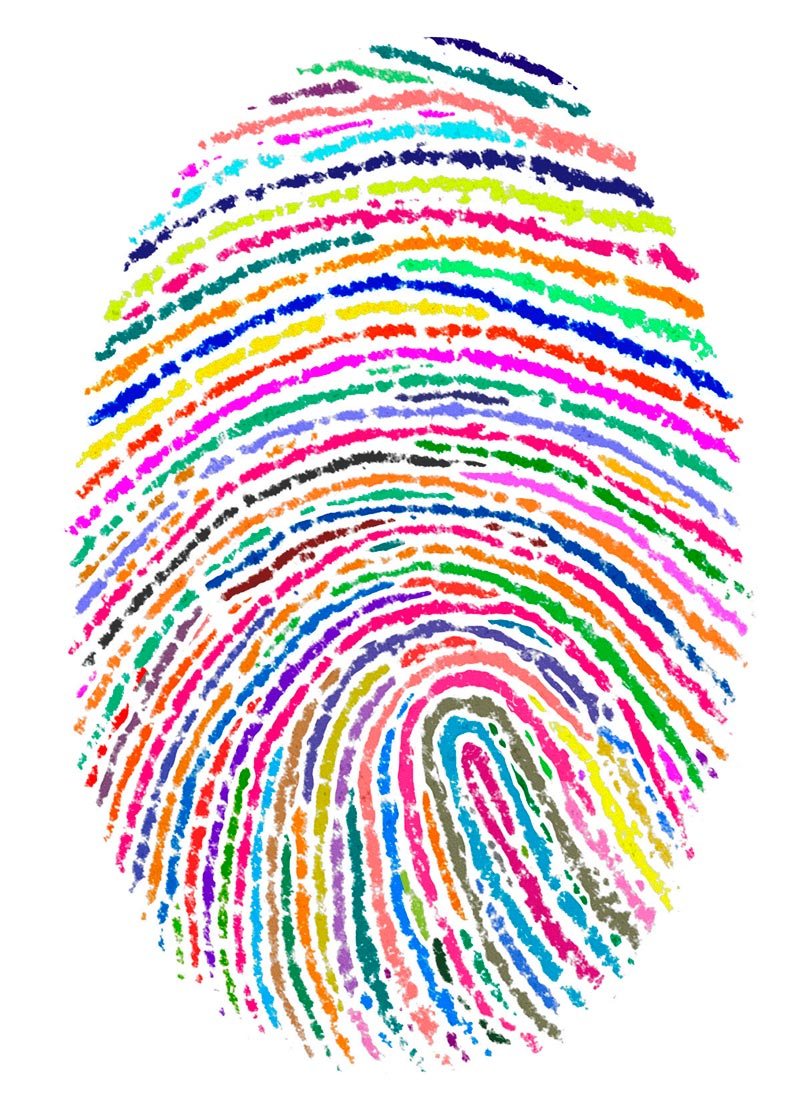
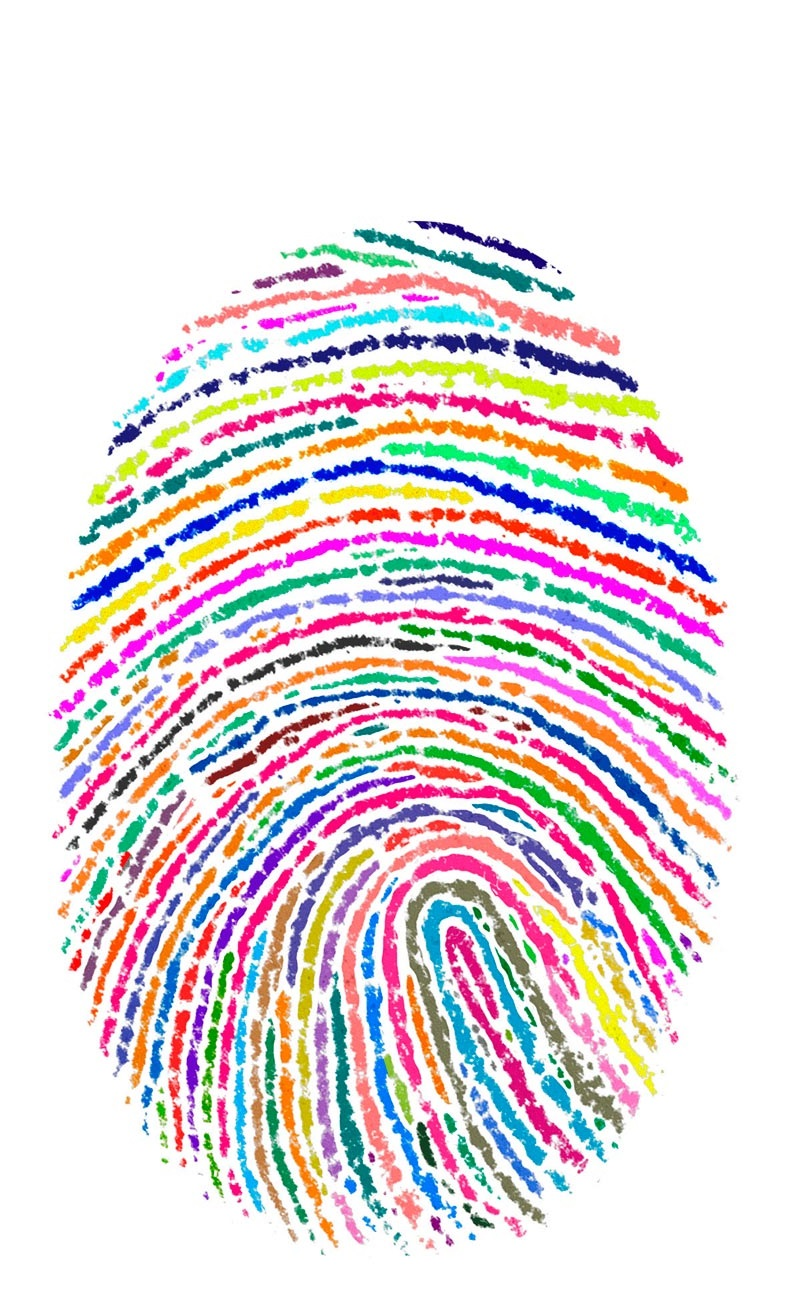
Create Fixed Header

diff --git a/src/app/header/header.component.css b/src/app/header/header.component.css
@@ -1,0 +1,63 @@
+header{
+  position:fixed;
+  padding-bottom: 4px;
+  width: 100%;
+  height: 150px;
+}
+
+body{
+  margin: 0px;
+}
+
+header .title{
+  position: relative;
+  text-align: center;
+  z-index: 100;
+}
+
+header .background{
+  position: absolute;
+  height: 100%;
+  width: 100%;
+  top: 0;
+  left: 0;
+  z-index: -100;
+}
+
+
+h1{
+  text-align: center;
+	font-size: 58px;
+	font-weight: 700;
+	color: black;
+	text-transform: uppercase;
+	letter-spacing: 0.05em;
+	margin-bottom: 10px;
+  margin-top: 4px;
+	clear: both;
+  padding-top: .5px
+}
+
+h1 span{
+  display: inline-block;
+  padding: 0.2em 0.5em;
+  border: black solid 10px;
+}
+
+.kicker{
+  text-align: center;
+	text-transform: uppercase;
+  font-weight: bold;
+	color: black;
+	letter-spacing: 0.05;
+  line-height: 1
+}
+
+@media (max-width: 640){
+  header{
+    height: 300px;
+  }
+  header h1{
+    padding-top: 0px;
+  }
+}

diff --git a/src/app/app.component.html b/src/app/app.component.html
@@ -1,5 +1,18 @@
+<app-header></app-header>
+
+<br><br><br><br><br><br><br><br><br><br>
+<br><br><br><br><br><br><br><br><br><br>
+<br><br><br><br><br><br><br><br><br><br>
+<br><br><br><br><br><br><br><br><br><br>
+<br><br><br><br><br><br><br><br><br><br>
+<br><br><br><br><br><br><br><br><br><br>
+<br><br><br><br><br><br><br><br><br><br>
+<br><br><br><br><br><br><br><br><br><br>
+<br><br><br><br><br><br><br><br><br><br>
+<br><br><br><br><br><br><br><br><br><br>
+<br><br><br><br><br><br><br><br><br><br>
+<br><br><br><br><br><br><br><br><br><br>
 <h1>
   {{title}}
 </h1>
-
-<my-parallax></my-parallax>
+<br><br><br><br><br><br><br><br><br><br>

diff --git a/src/app/header/header.component.html b/src/app/header/header.component.html
@@ -1,3 +1,11 @@
-<p>
-  header works!
-</p>
+<header>
+  <div class="title">
+    <h1><span>Diversity Research Symposium</span></h1>
+    <p class = "kicker">Learn | Interact | Network | Share Ideas</p>
+  </div>
+  <div class="background">
+    <div parallax speed="2" src="../../assets/diversity-print.jpg" ></div>
+  </div>
+
+
+</header>

diff --git a/src/app/header/header.component.ts b/src/app/header/header.component.ts
@@ -1,4 +1,5 @@
 import { Component, OnInit } from '@angular/core';
+import { ng2Parallax  } from '../../../node_modules/ang2-parallax/ng2parallax';
 
 @Component({
   selector: 'app-header',
